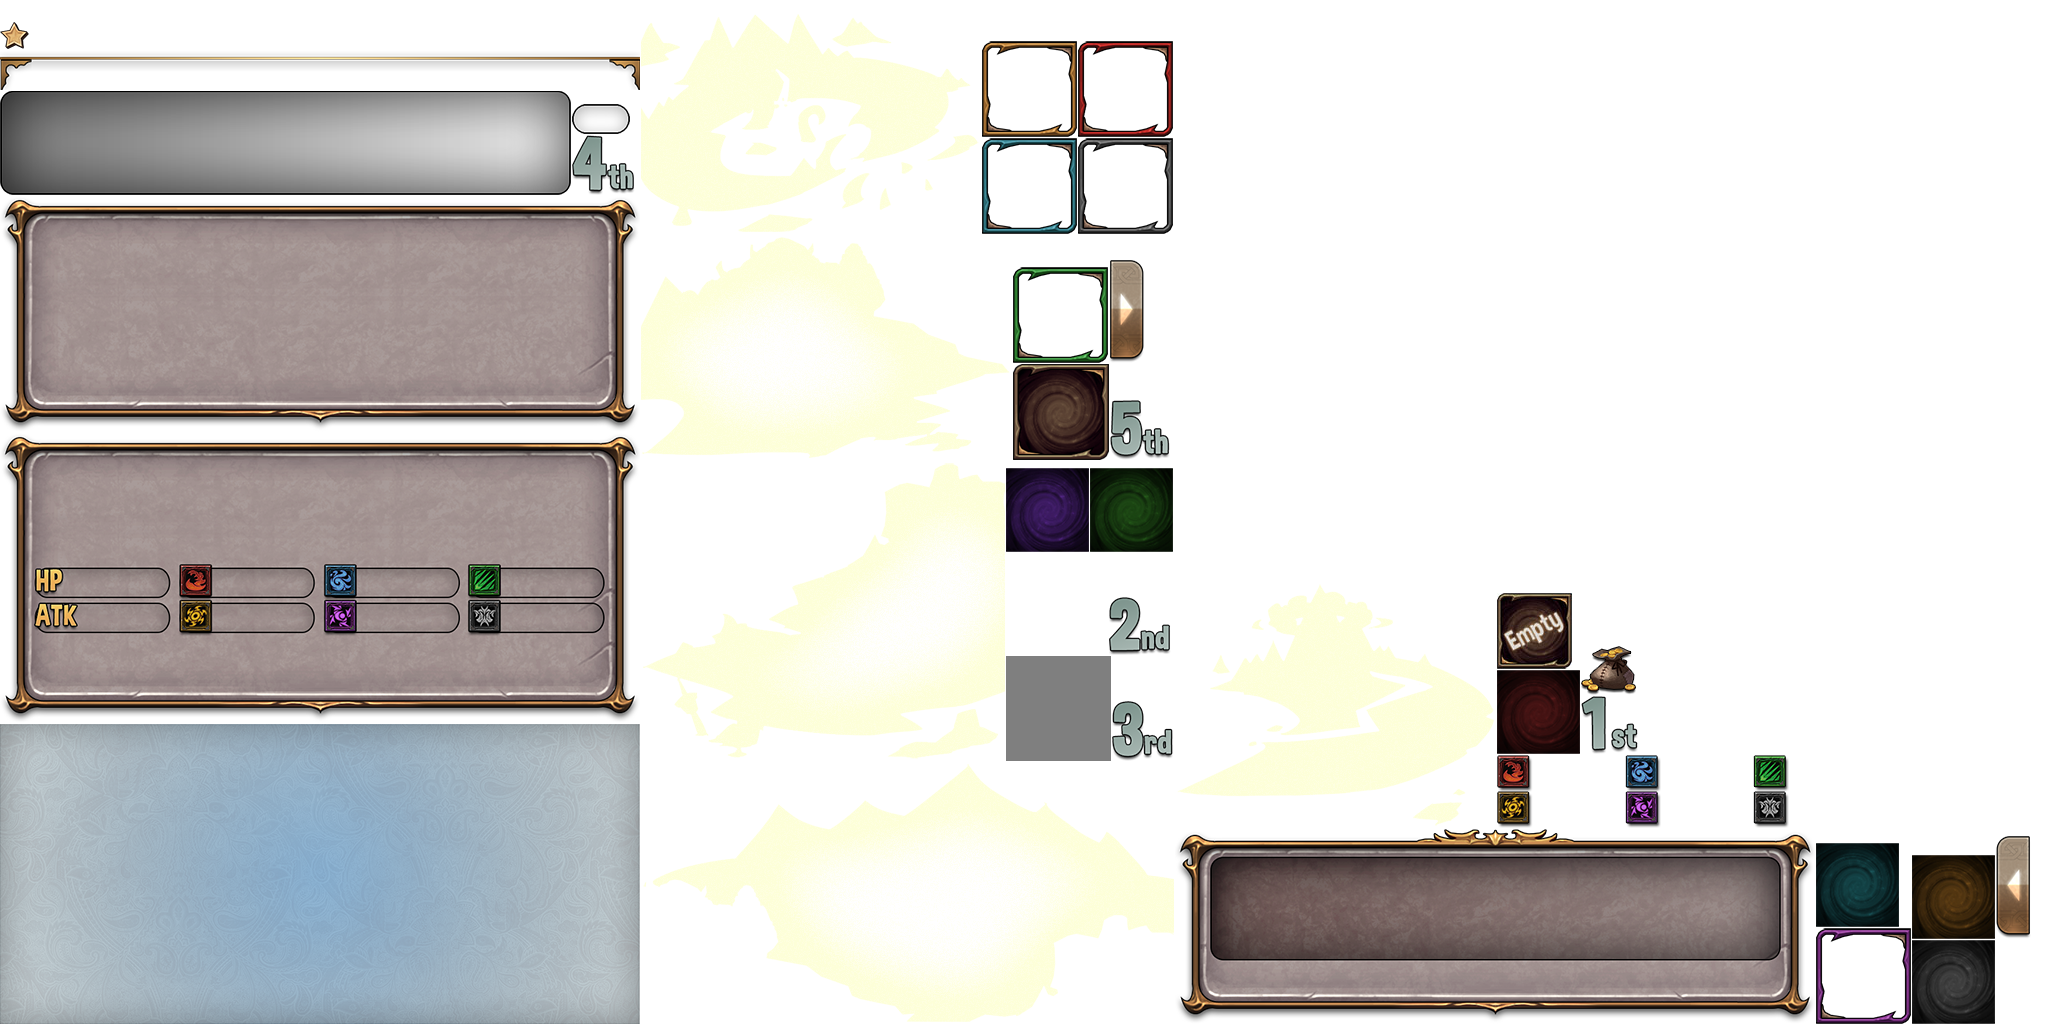
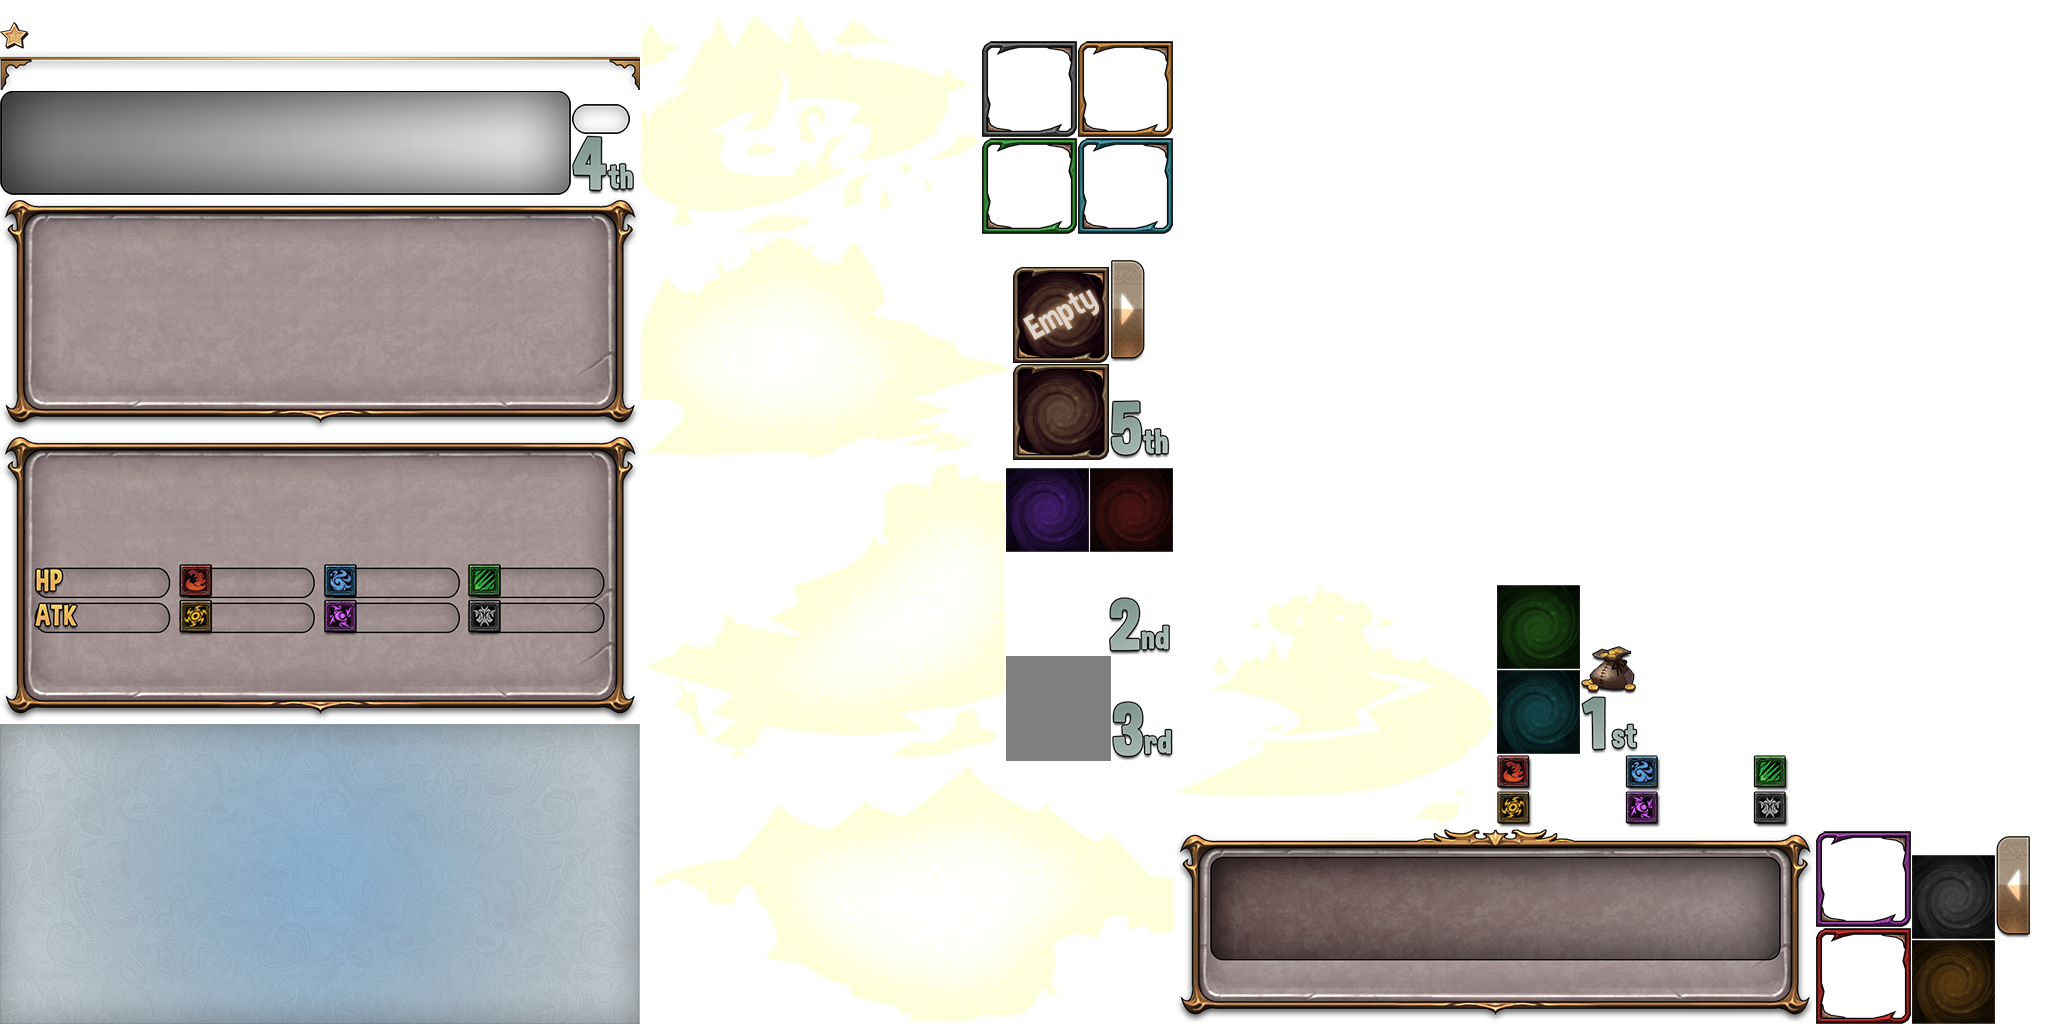
bug fix

diff --git a/Assets/Scripts/View/UI/Sell/SellView.cs b/Assets/Scripts/View/UI/Sell/SellView.cs
@@ -189,11 +189,11 @@ public class SellView : UIComponentUnity{
 		FindTextureWithPosition(poolPos, pickItemList).spriteName = "";
 		FindLabelWithPosition(poolPos, pickItemList).text = string.Empty;
 
-//		UISprite border = pickItemList[ poolPos ].transform.FindChild("Sprite_Avatar_Border").GetComponent<UISprite>();
-//		border.spriteName = "avatar_border_6";
+		UISprite border = pickItemList[ poolPos ].transform.FindChild("Sprite_Avatar_Border").GetComponent<UISprite>();
+		border.spriteName = "avatar_border_6";
 		
-//		UISprite bg = pickItemList[ poolPos ].transform.FindChild("Background").GetComponent<UISprite>();
-//		bg.spriteName = "unit_empty_bg";
+		UISprite bg = pickItemList[ poolPos ].transform.FindChild("Background").GetComponent<UISprite>();
+		bg.spriteName = "unit_empty_bg";
 
 		CancelMarkDragItem(clickPos);
 	}
